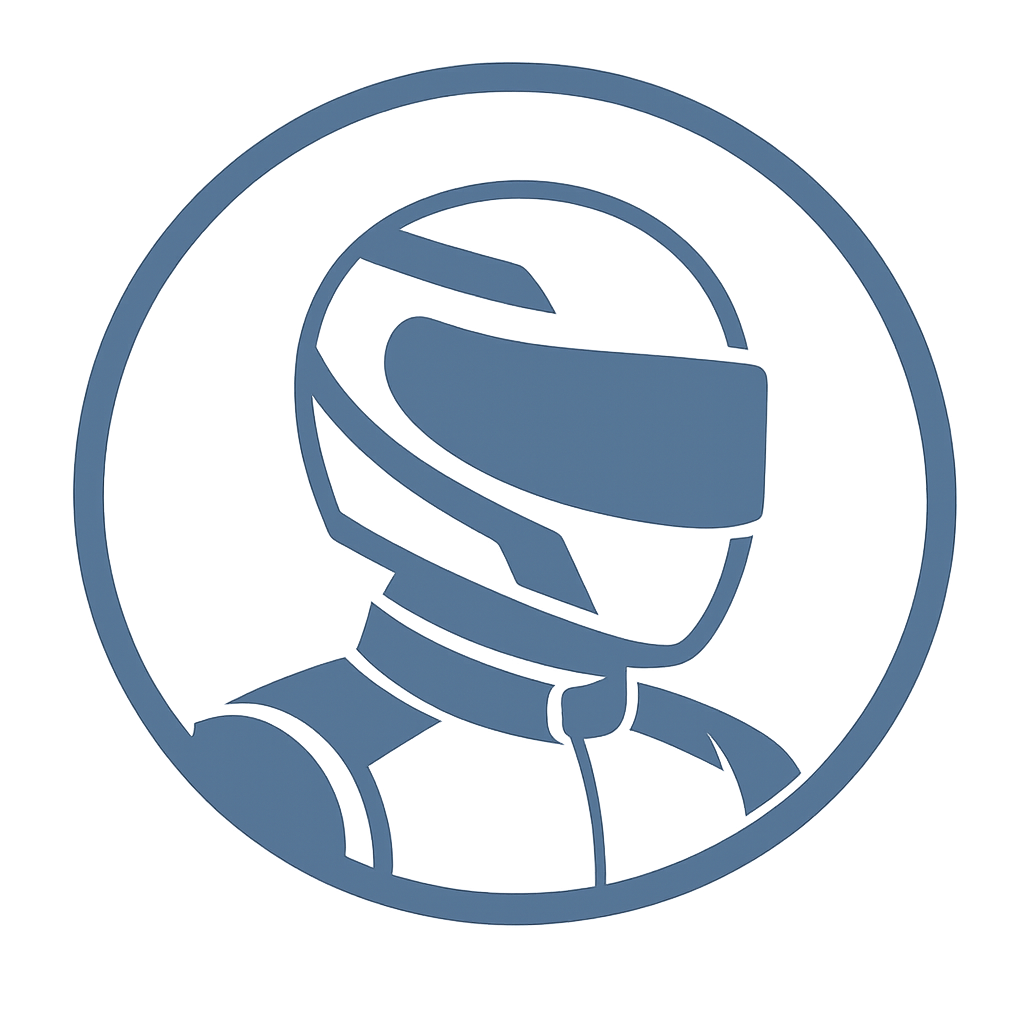
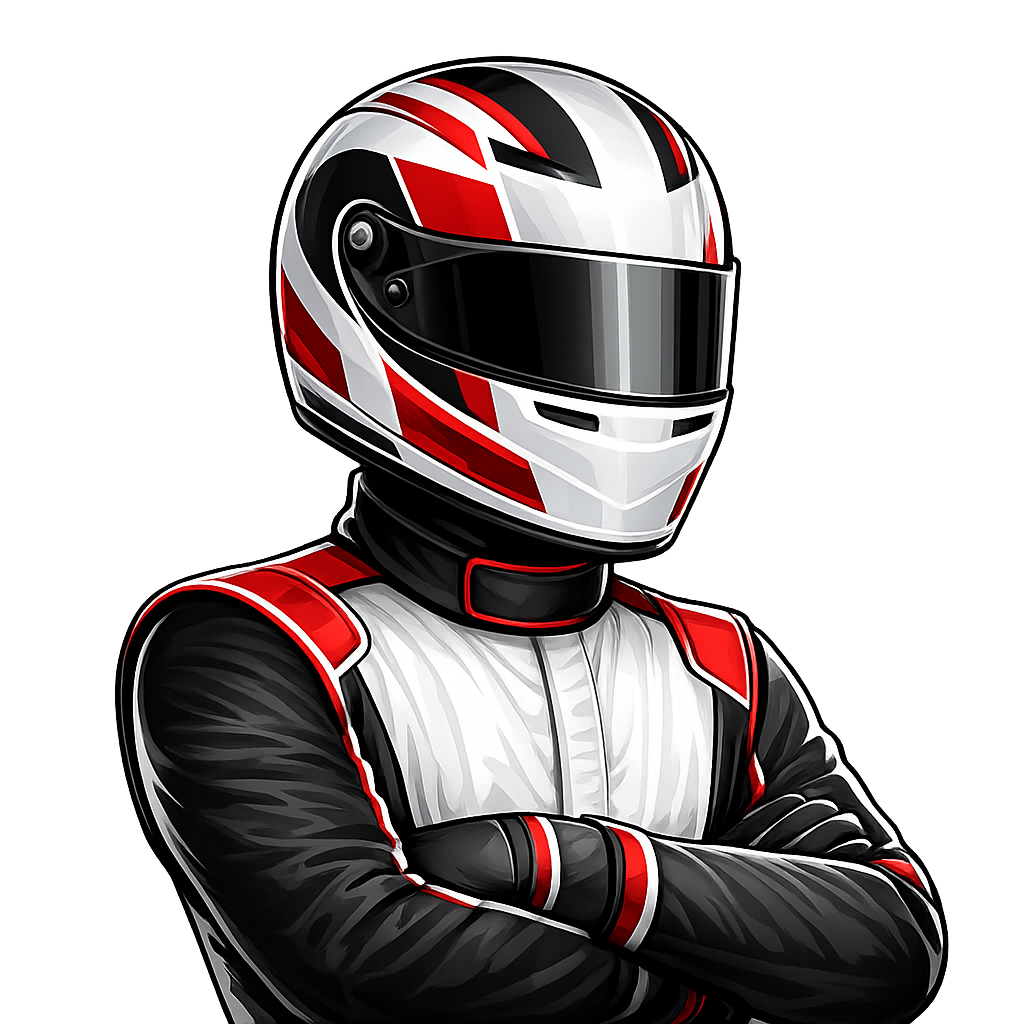
Improving driver selector component

diff --git a/app/_components/DriverSelector.js b/app/_components/DriverSelector.js
@@ -10,20 +10,28 @@ function DriverSelector() {
   const { hasDriver, setHasDriver } = useReservation();
 
   return (
-    <div className="flex justify-between items-center shadow w-full border border-primary-800 has-checked:ring-[#5fa212] has-checked:ring-2 bg-primary-950 px-6 py-5 rounded-md mb-10">
-      <div class="flex items-center space-x-5">
-        <div class="flex items-center relative w-16 h-16">
-          <Image src={pilot} fill className="object-cover" alt="pilot" />
+    <label className="driver-checkbox-container">
+      <div className="flex justify-around items-center space-x-5 shadow w-full border border-primary-800 has-checked:ring-[#5fa212] has-checked:ring-2 bg-primary-950 px-6 rounded-md mb-10">
+        <div class="flex items-center space-x-5">
+          <div class="flex items-center relative w-32 h-32">
+            <Image src={pilot} fill className="object-cover" alt="pilot" />
+          </div>
+          <h2 class="text-3xl">I want an expert driver to take the wheel</h2>
         </div>
-        <h2 class="text-3xl">I want an expert driver to take to wheel</h2>
+        <input
+          type="checkbox"
+          checked={hasDriver}
+          onChange={() => setHasDriver((h) => !h)}
+        />
+        <svg viewBox="0 0 64 64" className="h-8 w-8">
+          <path
+            d="M 0 16 V 56 A 8 8 90 0 0 8 64 H 56 A 8 8 90 0 0 64 56 V 8 A 8 8 90 0 0 56 0 H 8 A 8 8 90 0 0 0 8 V 16 L 32 48 L 64 16 V 8 A 8 8 90 0 0 56 0 H 8 A 8 8 90 0 0 0 8 V 56 A 8 8 90 0 0 8 64 H 56 A 8 8 90 0 0 64 56 V 16"
+            pathLength="575.0541381835938"
+            className="driver-checkbox-path"
+          ></path>
+        </svg>
       </div>
-      <input
-        type="checkbox"
-        class="h-9 w-9 outline-offset-2 origin-left accent-[#5fa212]"
-        checked={hasDriver}
-        onChange={() => setHasDriver((h) => !h)}
-      />
-    </div>
+    </label>
   );
 }
 

diff --git a/app/_styles/global.css b/app/_styles/global.css
@@ -236,3 +236,34 @@
 
   --rdp-selected-border: 2px solid var(--rdp-accent-color) !important;
 }
+
+.driver-checkbox-container {
+  cursor: pointer;
+}
+
+.driver-checkbox-container input {
+  display: none;
+}
+
+.driver-checkbox-container svg {
+  overflow: visible;
+}
+
+.driver-checkbox-path {
+  fill: none;
+  stroke: #2c3d4f;
+  stroke-width: 6;
+  stroke-linecap: round;
+  stroke-linejoin: round;
+  transition:
+    stroke-dasharray 0.5s ease,
+    stroke-dashoffset 0.5s ease;
+  stroke-dasharray: 241 9999999;
+  stroke-dashoffset: 0;
+}
+
+.driver-checkbox-container input:checked ~ svg .driver-checkbox-path {
+  stroke: #5fa212;
+  stroke-dasharray: 70.5096664428711 9999999;
+  stroke-dashoffset: -262.2723388671875;
+}